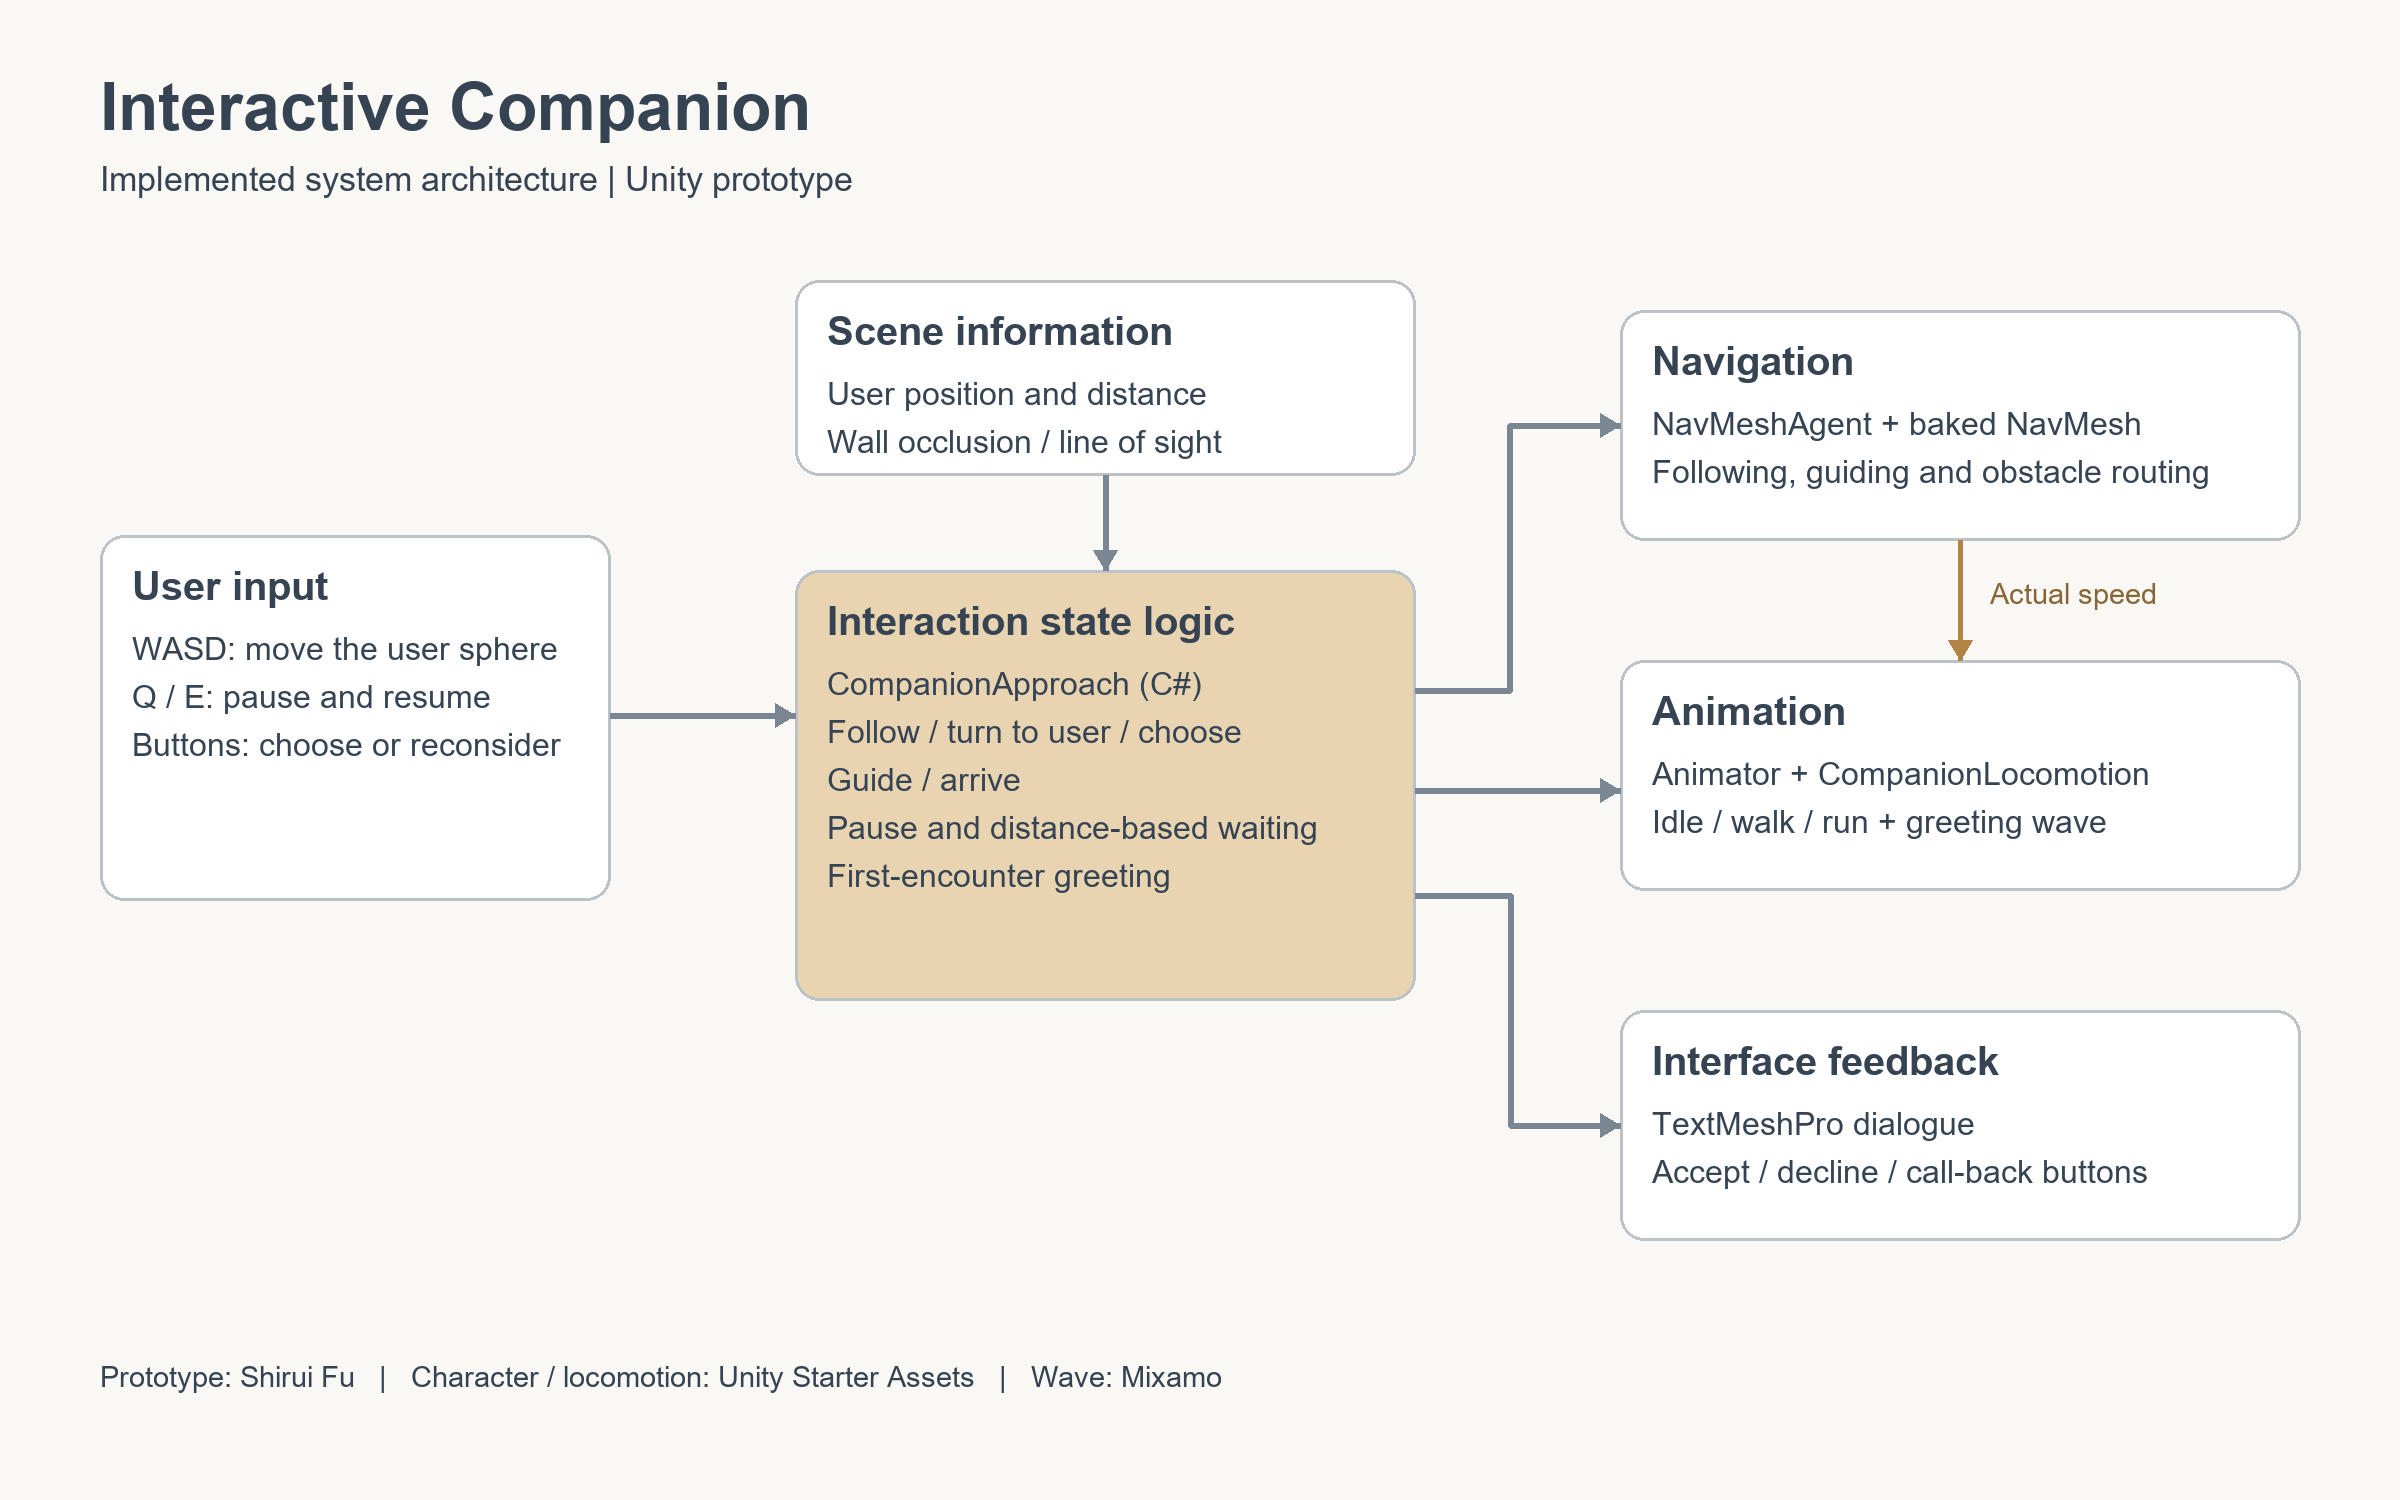
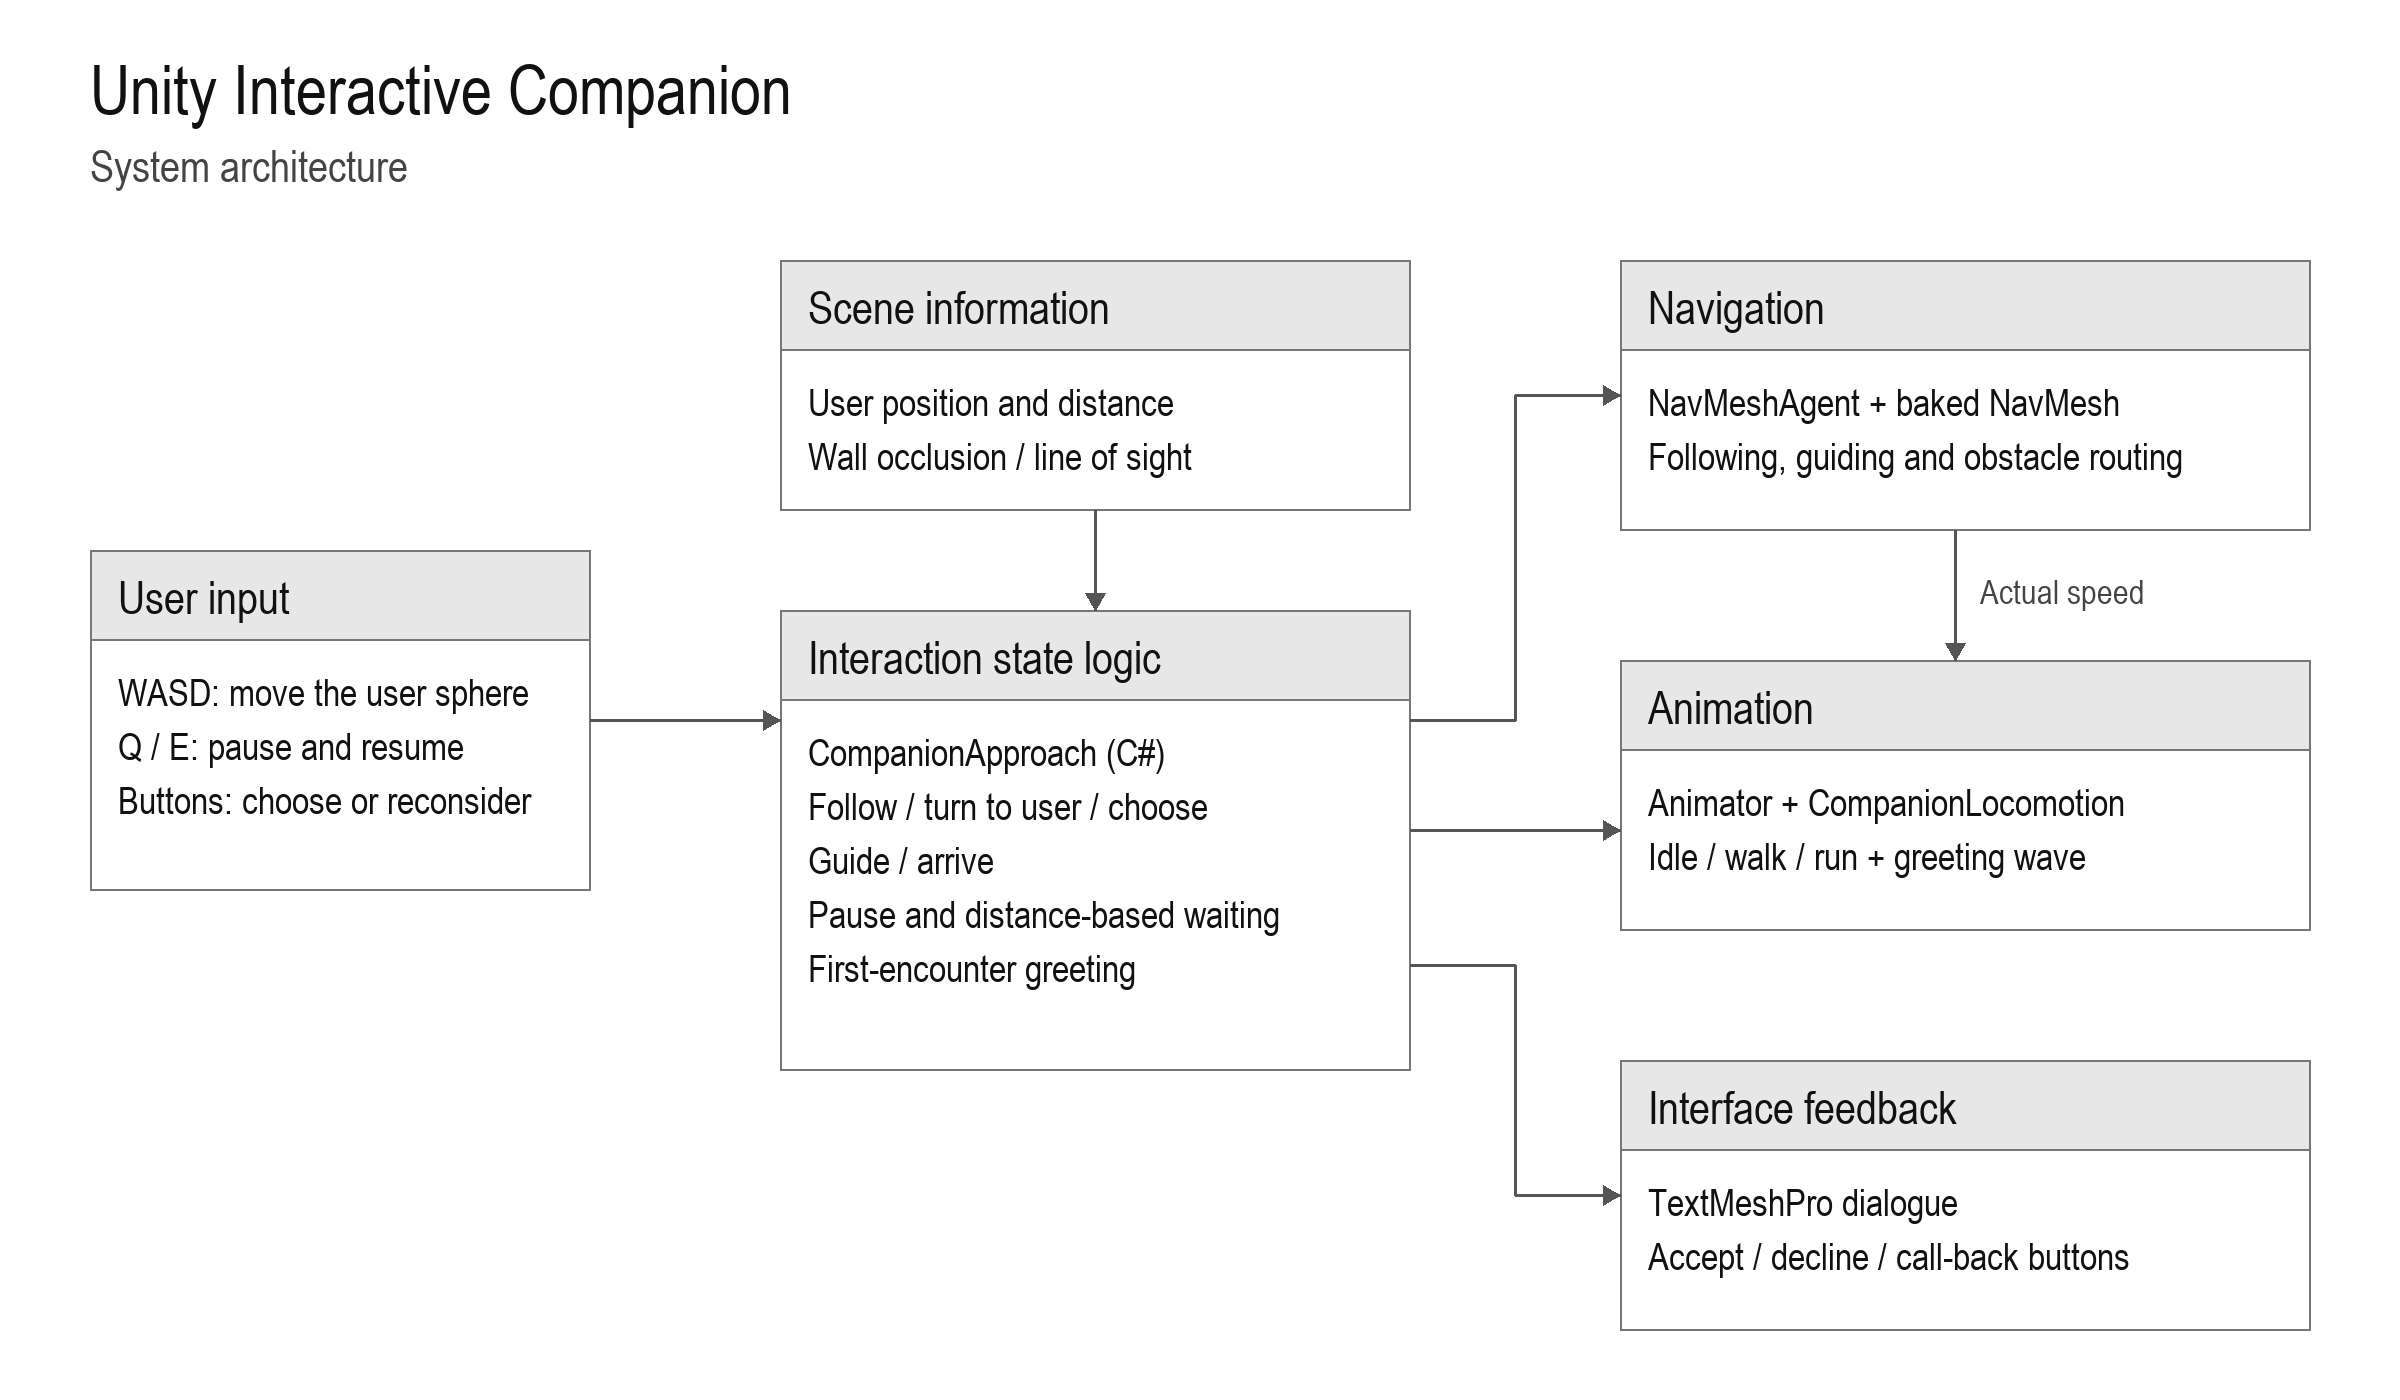
Restyle architecture diagram and unify project title

diff --git a/README.md b/README.md
@@ -1,4 +1,4 @@
-# Interactive Companion
+# Unity Interactive Companion
 
 A Unity prototype in which a virtual companion greets the user, follows them around obstacles, offers to guide them to a meeting point, and waits when they fall behind. Users can pause the interaction or change their plans along the way.
 
